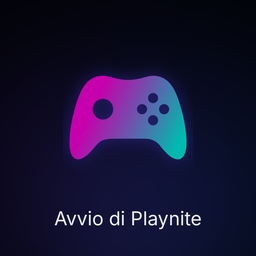
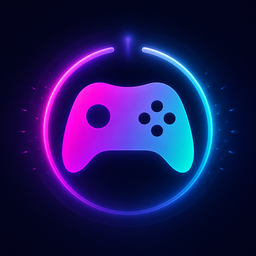
Prepare Playnite Boot Screen 0.6.0

diff --git a/PlayniteBoot/Properties/AssemblyInfo.cs b/PlayniteBoot/Properties/AssemblyInfo.cs
@@ -8,5 +8,5 @@ using System.Runtime.InteropServices;
 [assembly: AssemblyCopyright("Copyright © VirtualGIT20 2026")]
 [assembly: ComVisible(false)]
 [assembly: Guid("29f3bcc1-12ed-423e-8c61-d0eb0218eec3")]
-[assembly: AssemblyVersion("0.5.0.0")]
-[assembly: AssemblyFileVersion("0.5.0.0")]
+[assembly: AssemblyVersion("0.6.0.0")]
+[assembly: AssemblyFileVersion("0.6.0.0")]

diff --git a/docs/RELEASE_CHECKLIST.md b/docs/RELEASE_CHECKLIST.md
@@ -1,4 +1,4 @@
-# Release checklist — 0.5.0
+# Release checklist — 0.6.0
 
 ## Code and behavior
 
@@ -13,6 +13,12 @@
 - [ ] Alt+Tab yields the overlay, restores the cursor, and does not cancel Playnite startup.
 - [ ] Automatic foreground changes from Terminal, Explorer, Sunshine, or Apollo do not reveal the cursor or disable Alt+F4.
 - [ ] Streaming Preload and Continue succeed on the target virtual display.
+- [ ] Follow Playnite selects the primary display when Playnite uses its primary-display option.
+- [ ] Follow Playnite selects Playnite's configured secondary display when primary-display mode is disabled.
+- [ ] Missing, invalid, or stale Playnite display settings fall back without stopping the launcher.
+- [ ] Playnite readiness is detected when the overlay and Playnite Fullscreen are on different monitors.
+- [ ] The standard video folder list refreshes, ignores subfolders, and keeps external video paths supported.
+- [ ] Standard-folder videos are written to `config.json` as relative `.\media\...` paths.
 - [ ] Desktop and Start shortcuts can be created, renamed, and removed.
 - [ ] Invalid or modified shortcut state cannot escape the Desktop or Start menu directories.
 - [ ] Runtime log rotates to `PlayniteBoot.log.1` after 2 MiB.
@@ -27,7 +33,7 @@
 
 ## Packaging
 
-- [ ] `scripts/verify-release.ps1 -Version 0.5.0` succeeds.
+- [ ] `scripts/verify-release.ps1 -Version 0.6.0` succeeds.
 - [ ] `scripts/pack.ps1 -Configuration Release` creates exactly one expected `.pext`.
 - [ ] Build and package contain no `.pdb`, source, temporary, or stale files.
 - [ ] SHA-256 file matches the package.
@@ -39,7 +45,7 @@
 - [ ] Repository description, topics, and license are set.
 - [ ] Private vulnerability reporting is enabled.
 - [ ] CI workflow succeeds.
-- [ ] Tag `v0.5.0` creates a release with `.pext` and checksum.
+- [ ] Tag `v0.6.0` creates a release with `.pext` and checksum.
 - [ ] Release notes mention the theme-related black-screen diagnostic.
 
 ## Playnite add-on database

diff --git a/RELEASE_NOTES.md b/RELEASE_NOTES.md
@@ -1,18 +1,15 @@
-# Playnite Boot Screen 0.5.0
+# Playnite Boot Screen 0.6.0
 
-First stable public release of Playnite Boot Screen.
+This update improves multi-monitor behavior and makes custom boot videos easier to manage.
 
 Highlights:
+- optional **Follow Playnite Fullscreen setting** monitor selection, read from Playnite's configuration in read-only mode;
+- safe fallback to the last manual monitor choice when Playnite's display setting cannot be resolved;
+- readiness detection on whichever monitor actually contains the Playnite Fullscreen window;
+- a managed video list for supported files placed directly in the persistent `Runtime\media` folder;
+- external video paths remain supported;
+- standard-folder videos are stored in the runtime configuration using relative paths;
+- new language-neutral extension icon;
+- runtime updated to 1.0.4.
 
-- English 4K60 default boot video with configurable custom media;
-- direct Desktop and Start menu shortcuts;
-- optional full-video playback before revealing Playnite;
-- Sunshine/Apollo-compatible streaming preload using Prep and Detached commands;
-- Alt+F4 cancels the active boot sequence and stops the Playnite Fullscreen process started by it;
-- Alt+Tab explicitly yields the overlay while automatic foreground changes from streaming launchers are ignored;
-- English and Italian UI;
-- hardened shortcut path handling and absolute Windows PowerShell resolution;
-- clean, deterministic build and packaging output;
-- managed runtime, diagnostics, and bounded log files.
-
-Before reporting a streaming black screen, retry once with Playnite's default Fullscreen theme and attach both Playnite and Playnite Boot Screen logs.
+Existing shortcuts, streaming commands, custom media, and settings remain compatible.

diff --git a/README_IT.md b/README_IT.md
@@ -12,7 +12,9 @@ Supporta anche un flusso di preload generico per Sunshine, Apollo, Vibeshine, Vi
 
 ## Funzioni
 
-- Video, monitor, adattamento, fade, mute e volume da 0 a 100 configurabili.
+- Elenco gestito dei video supportati nella cartella media persistente, mantenendo anche i percorsi video esterni.
+- Possibilità di seguire il display Fullscreen scelto da Playnite oppure selezionare manualmente il monitor, con rilevamento sicuro in configurazioni multi-monitor.
+- Adattamento, fade, mute e volume da 0 a 100 configurabili.
 - Possibilità di mostrare Playnite appena pronto oppure attendere la fine naturale del video.
 - Runtime gestito fuori dalla directory sostituita durante gli aggiornamenti dell'estensione.
 - Nome personalizzabile per i collegamenti Desktop e menu Start.
@@ -76,6 +78,8 @@ I file persistenti vengono salvati nella directory dati dell’estensione:
 ```
 
 La directory di installazione dell’estensione può essere sostituita senza eliminare video personalizzati, configurazione o log.
+
+Copia i file `.mp4`, `.mkv`, `.webm`, `.avi` o `.mov` direttamente in `Runtime\media`, quindi usa **Aggiorna elenco** nelle impostazioni. I file esterni alla cartella restano selezionabili tramite **Sfoglia esterno…**.
 
 ## Build e pacchetto
 

diff --git a/README.md b/README.md
@@ -12,7 +12,9 @@ It also supports a generic streaming preload flow for Sunshine, Apollo, Vibeshin
 
 ## Features
 
-- Custom video file, monitor, scaling, fades, mute, and volume from 0 to 100.
+- Managed video list for supported files in the persistent runtime media folder, while external video paths remain supported.
+- Follow Playnite's Fullscreen display setting or choose a monitor manually, with safe multi-monitor readiness detection.
+- Configurable scaling, fades, mute, and volume from 0 to 100.
 - Reveal Playnite as soon as it is ready, or wait for the video to end naturally.
 - Managed runtime stored outside the replaceable extension installation directory.
 - Configurable Desktop and Start menu shortcut name.
@@ -82,6 +84,8 @@ Persistent files are stored under Playnite's extension data directory:
 ```
 
 The extension installation directory can be safely replaced during updates without deleting custom media, configuration, or logs.
+
+Place `.mp4`, `.mkv`, `.webm`, `.avi`, or `.mov` files directly in `Runtime\media`, then use **Refresh list** in the settings page. Files outside this folder can still be selected with **Browse external…**.
 
 ## Build
 

diff --git a/docs/TROUBLESHOOTING.md b/docs/TROUBLESHOOTING.md
@@ -22,6 +22,12 @@ Stop-Process -Name Playnite.FullscreenApp -Force -ErrorAction SilentlyContinue
 
 These commands do not terminate Playnite Desktop unless Desktop is itself switching or shutting down.
 
+## Overlay and Playnite on different monitors
+
+For desktop launches, select **Follow Playnite Fullscreen setting** to place the overlay on the display configured by Playnite. The setting is read in read-only mode; if the configuration is missing, invalid, or references a disconnected display, the extension uses the last manual monitor choice and finally the primary display.
+
+The overlay intentionally does not move after it is shown. If Playnite opens on another monitor, readiness is evaluated against the monitor occupied by the Playnite window and the overlay fades normally. The runtime log records both display names.
+
 ## Black screen after the overlay fades
 
 A Playnite Fullscreen theme can create a fullscreen window but fail to render visible content on a physical or virtual display. This can look like a frozen boot overlay even when Playnite Boot Screen has already exited normally.

diff --git a/CHANGELOG.md b/CHANGELOG.md
@@ -2,6 +2,24 @@
 
 All notable changes are documented here. Versions follow the Playnite extension manifest format.
 
+## [0.6.0] - 2026-08-06
+
+### Added
+
+- A managed video library scans supported files directly inside the persistent `Runtime\media` folder.
+- `Follow Playnite Fullscreen setting` selects the desktop overlay monitor from Playnite's read-only Fullscreen configuration, with a saved manual fallback.
+- Refresh, open-folder, external-file, and restore-default controls for boot-video selection.
+
+### Changed
+
+- Videos inside the standard media folder are written to the runtime configuration as portable relative paths.
+- The extension icon now uses a language-neutral design.
+
+### Fixed
+
+- Playnite Fullscreen readiness is detected on the monitor actually occupied by its window, even when the boot overlay is displayed elsewhere.
+- Stale or unavailable monitor indices now fall back safely instead of stopping the launcher.
+
 ## [0.5.0] - 2026-08-05
 
 ### Added
